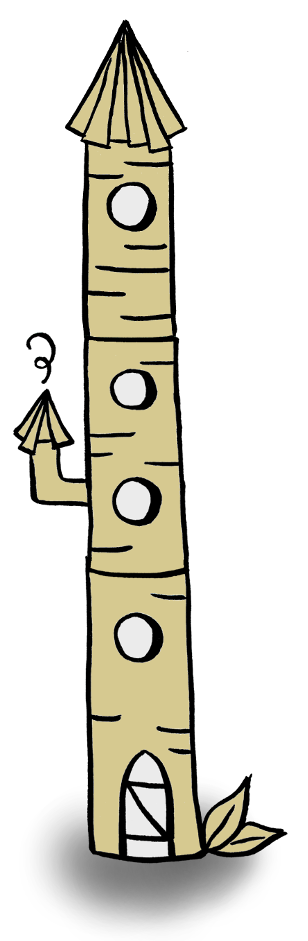
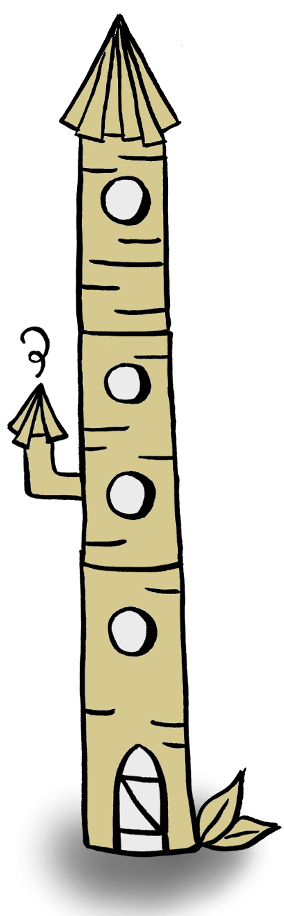
larger tutorial house, fixes #213

Changed region(s): [[0.0282, 0.0, 0.9859, 1.0]]

diff --git a/crickets/templates/crickets/tutorial5.html b/crickets/templates/crickets/tutorial5.html
@@ -58,7 +58,7 @@
 
          </div>
 
-         <div class="col-lg-2 col-md-2 col-md-offset-0 col-sm-2 col-sm-offset-5 col-xs-2 col-xs-offset-5">
+         <div class="col-lg-2 col-md-2 col-md-offset-0 col-sm-2 col-sm-offset-5 col-xs-2 col-xs-offset-5" style="padding:0;">
            <img src="{{ MEDIA_URL }}images/training/house.png" width=100%>
          </div>
 
